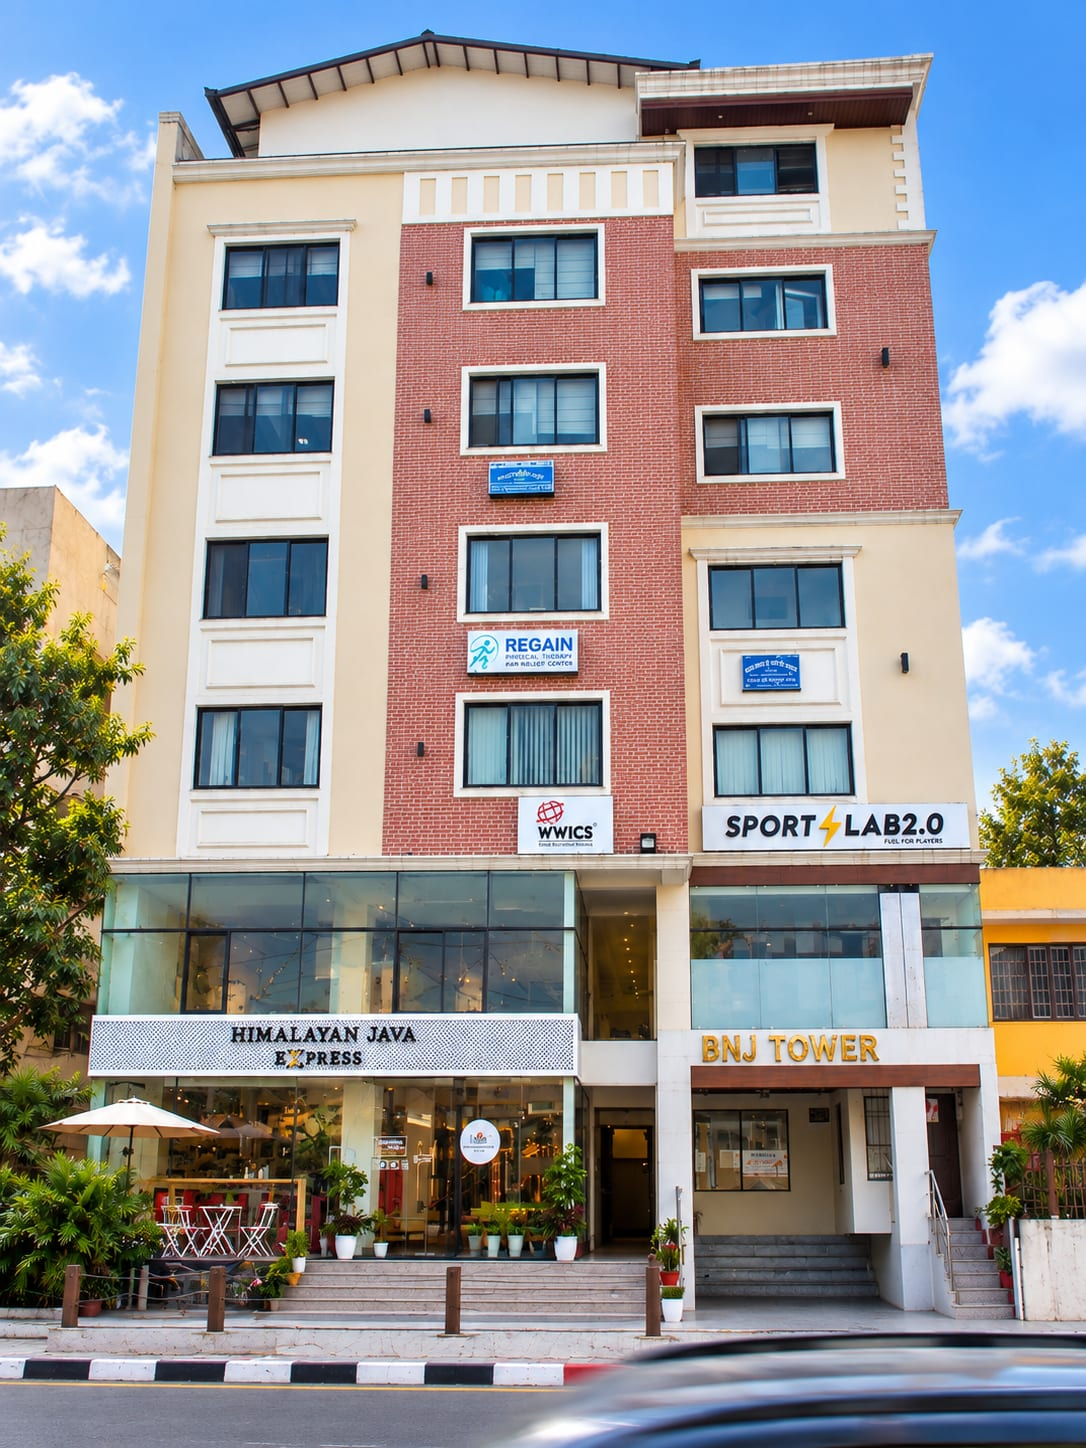
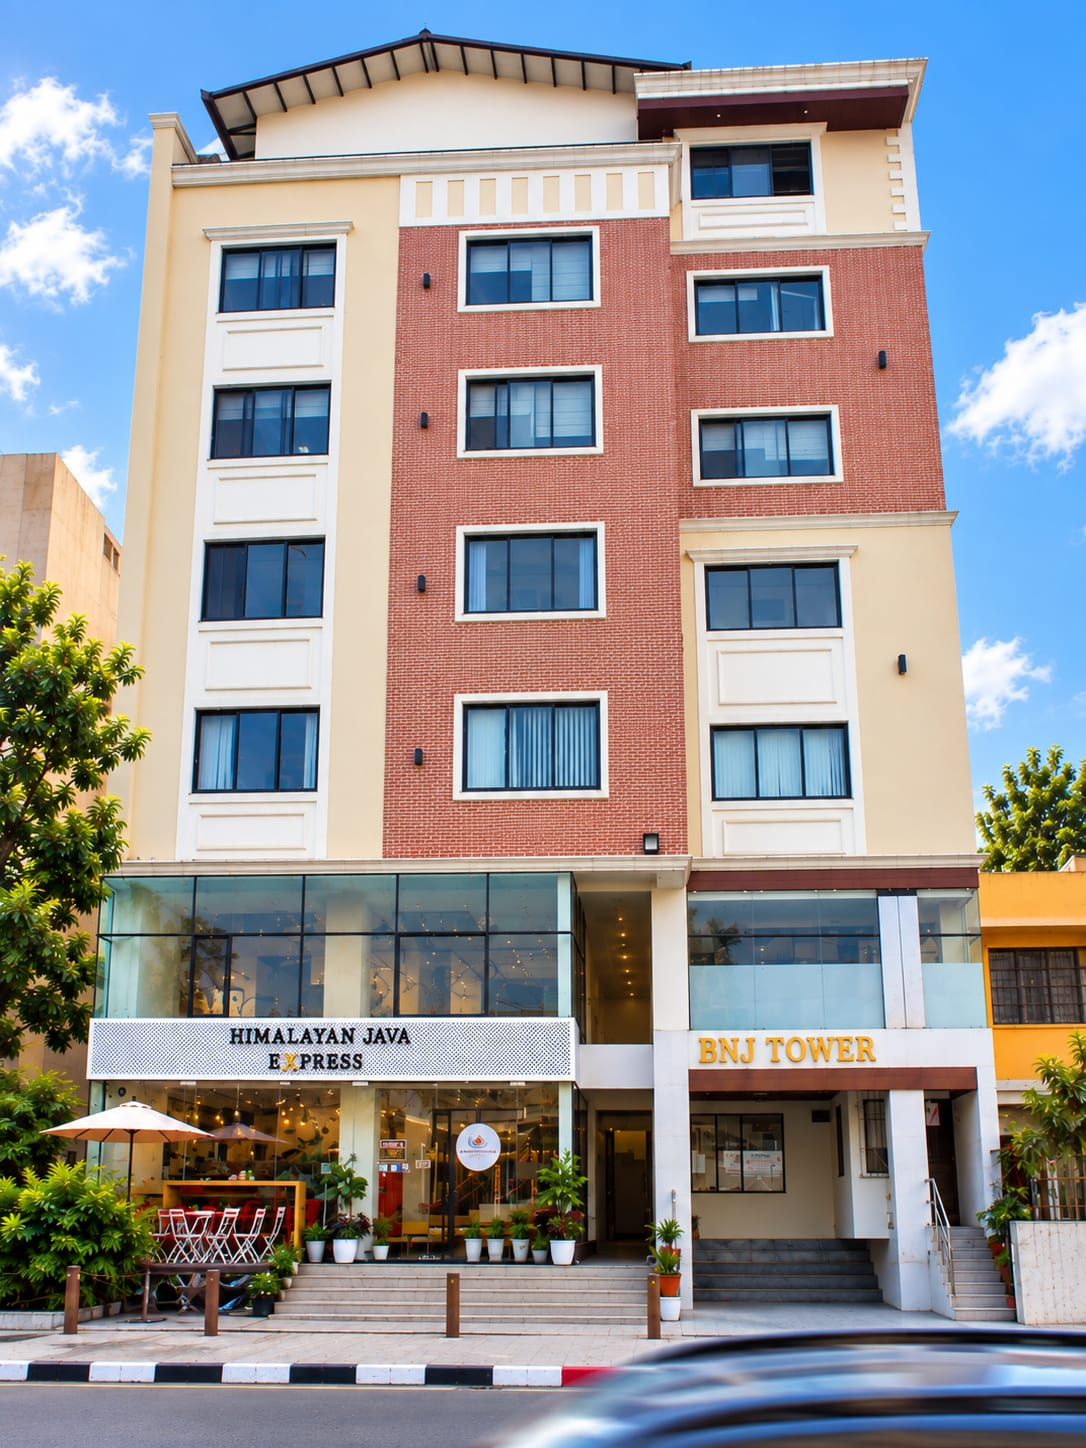
Update BNJ Properties and company profile photos, fix brand and About images
- BNJ Properties: replace placeholder stock photo with real warehouse,
  BNJ Tower, and residential-development photos across card, hero and
  gallery; drop the old duplicated placeholder
- Company profile / About photo: use the real BNJ Tower photo, fit it to
  the frame with no crop and no letterbox gutter, and remove the
  "Generations of Enterprise" badge
- Brand Partners: brand/logo tiles are now clickable links to each
  business's detail page, with a hover affordance
- Business detail pages: move the company/brand logo row into the Key
  Focus Areas panel, sized up and clearly visible, with the featured
  brand (e.g. Montra) shown first
- Fix Kabsons gallery image reference (shreemaya-gas.png)

diff --git a/src/pages/PortfolioDetails.tsx b/src/pages/PortfolioDetails.tsx
@@ -52,16 +52,7 @@ const PortfolioDetails = () => {
         <div className="container mx-auto px-6 relative z-20 flex flex-col justify-center h-full pt-16 w-full max-w-6xl">
 
           <div className="w-[90%] md:w-[75%] lg:w-[60%] border-l-4 border-brand-red pl-6 md:pl-12 lg:pl-16">
-            {data.logo && (
-              <div className="mb-4">
-                <img
-                  src={data.logo}
-                  alt={`${data.title} Logo`}
-                  className="h-12 md:h-16 object-contain dark:filter dark:brightness-0 dark:invert transition-all duration-300"
-                  onError={(e) => e.currentTarget.style.display = 'none'}
-                />
-              </div>
-            )}
+
             <motion.h1
               initial={{ opacity: 0, y: 20 }}
               animate={{ opacity: 1, y: 0 }}
@@ -101,18 +92,48 @@ const PortfolioDetails = () => {
                 </p>
               </div>
 
-              {/* Focus Areas Pull-out */}
-              {data.details.length > 0 && (
+              {/* Focus Areas Pull-out — also carries the company & brand logos, shown large and clear */}
+              {(data.details.length > 0 || data.logo || data.brands.length > 0) && (
                 <div className="my-20 p-12 border-t-4 border-b border-brand-red bg-muted/30">
-                  <h3 className="text-2xl font-black text-foreground mb-8 uppercase tracking-widest text-center">Key Focus Areas</h3>
-                  <div className="grid grid-cols-1 sm:grid-cols-2 gap-x-8 gap-y-6">
-                    {data.details.map((detail, idx) => (
-                      <div key={idx} className="flex items-start gap-4">
-                        <div className="w-1.5 h-1.5 rounded-full bg-brand-red mt-2.5 shrink-0"></div>
-                        <span className="font-light text-lg text-foreground">{detail}</span>
+                  {(data.logo || data.brands.length > 0) && (
+                    <div
+                      className={`flex flex-wrap items-center justify-center gap-x-14 gap-y-8 ${
+                        data.details.length > 0 ? "mb-12 pb-12 border-b border-border" : ""
+                      }`}
+                    >
+                      {data.brands.map((brand) => (
+                        <img
+                          key={brand.id}
+                          src={brand.logo}
+                          alt={brand.name}
+                          className="h-20 md:h-24 object-contain"
+                          onError={(e) => e.currentTarget.style.display = 'none'}
+                        />
+                      ))}
+                      {data.logo && (
+                        <img
+                          src={data.logo}
+                          alt={`${data.title} logo`}
+                          className="h-16 md:h-20 object-contain"
+                          onError={(e) => e.currentTarget.style.display = 'none'}
+                        />
+                      )}
+                    </div>
+                  )}
+
+                  {data.details.length > 0 && (
+                    <>
+                      <h3 className="text-2xl font-black text-foreground mb-10 uppercase tracking-widest text-center">Key Focus Areas</h3>
+                      <div className="grid grid-cols-1 sm:grid-cols-2 gap-x-10 gap-y-8">
+                        {data.details.map((detail, idx) => (
+                          <div key={idx} className="flex items-start gap-4">
+                            <div className="w-2 h-2 rounded-full bg-brand-red mt-3 shrink-0"></div>
+                            <span className="font-semibold text-xl text-foreground">{detail}</span>
+                          </div>
+                        ))}
                       </div>
-                    ))}
-                  </div>
+                    </>
+                  )}
                 </div>
               )}
             </div>
@@ -230,7 +251,7 @@ const PortfolioDetails = () => {
             }}
           ></div>
           <div className="container mx-auto px-6 max-w-6xl relative z-10">
-            <h2 className="text-sm font-bold uppercase tracking-[0.3em] text-brand-red mb-16 text-center border-b border-white/10 pb-8">Featured Partners</h2>
+            <h2 className="text-sm font-bold uppercase tracking-[0.3em] text-brand-red mb-16 text-center border-b border-white/10 pb-8">Our Brands</h2>
 
             <div className="flex flex-wrap justify-center items-center gap-16">
               {data.brands.map((brand) => (

diff --git a/src/pages/BrandPartnersPage.tsx b/src/pages/BrandPartnersPage.tsx
@@ -1,4 +1,6 @@
 import React, { useEffect } from "react";
+import { Link } from "react-router";
+import { ArrowUpRight } from "lucide-react";
 import Header from "../components/Header";
 import ContactFooter from "../components/ContactFooter";
 import { motion } from "motion/react";
@@ -98,12 +100,12 @@ const BrandPartnersPage = () => {
                       </p>
                     </div>
 
-                    <a
-                      href={`/portfolio/${business.slug}`}
+                    <Link
+                      to={`/portfolio/${business.slug}`}
                       className="inline-flex items-center text-sm font-bold uppercase tracking-widest text-[#cb9733] hover:text-white transition-colors mt-auto relative z-10"
                     >
                       View Details &rarr;
-                    </a>
+                    </Link>
                   </div>
 
                   {/* Brands Container */}
@@ -115,21 +117,31 @@ const BrandPartnersPage = () => {
                     {business.brands.length > 0 ? (
                       <div className="flex flex-wrap gap-8 md:gap-12 items-center">
                         {business.brands.map((brand) => (
-                          <div key={brand.id} className="flex flex-col items-center gap-4 group">
-                            <div className="w-32 h-32 md:w-48 md:h-48 rounded-xl bg-muted p-6 flex items-center justify-center border border-border shadow-sm group-hover:border-[#cb9733]/50 group-hover:shadow-md transition-all duration-300">
+                          <Link
+                            key={brand.id}
+                            to={`/portfolio/${business.slug}`}
+                            aria-label={`View ${business.title} — ${brand.name}`}
+                            className="flex flex-col items-center gap-4 group"
+                          >
+                            <div className="relative w-32 h-32 md:w-48 md:h-48 rounded-xl bg-muted p-6 flex items-center justify-center border border-border shadow-sm transition-all duration-300 group-hover:border-[#cb9733]/60 group-hover:shadow-lg group-hover:-translate-y-1">
                               <img
                                 src={brand.logo}
                                 alt={brand.name}
-                                className="max-w-full max-h-full object-contain transition-all duration-300"
+                                className="max-w-full max-h-full object-contain transition-transform duration-300 group-hover:scale-105"
                                 onError={(e) => {
                                   // Fallback if image fails
                                   e.currentTarget.style.display = 'none';
                                   e.currentTarget.parentElement!.innerHTML = `<span class="font-bold text-xl text-foreground text-center">${brand.fallbackText || brand.name}</span>`;
                                 }}
                               />
+                              <span className="absolute top-2 right-2 flex h-7 w-7 items-center justify-center rounded-full bg-[#cb9733] text-white opacity-0 scale-75 shadow-md transition-all duration-300 group-hover:opacity-100 group-hover:scale-100">
+                                <ArrowUpRight size={15} />
+                              </span>
                             </div>
-                            <span className="text-base md:text-lg font-bold text-foreground">{brand.name}</span>
-                          </div>
+                            <span className="text-base md:text-lg font-bold text-foreground transition-colors duration-300 group-hover:text-[#cb9733]">
+                              {brand.name}
+                            </span>
+                          </Link>
                         ))}
                       </div>
                     ) : (

diff --git a/src/content/defaults.ts b/src/content/defaults.ts
@@ -74,7 +74,7 @@ export const DEFAULT_CONTENT: SiteContent = {
     titleLine1: "Why",
     titleLine2: "We Are.",
     image: "/assets/company profile/company profile pic.jpg",
-    imageBadge: "Generations of Enterprise",
+    imageBadge: "",
     imageEyebrow: "Corporate Office",
     imageCaption: "BNJ Tower, Tripureshwor, Kathmandu",
     dropCap: "W",
@@ -223,7 +223,7 @@ export const DEFAULT_CONTENT: SiteContent = {
           fallbackText: "Shreemaya Gas",
         },
       ],
-      gallery: ["/assets/Kabsons/cover.jpg", "/assets/Kabsons/shreemaya-gas.jpg"],
+      gallery: ["/assets/Kabsons/cover.jpg", "/assets/Kabsons/shreemaya-gas.png"],
       published: true,
       order: 1,
     },
@@ -312,8 +312,8 @@ export const DEFAULT_CONTENT: SiteContent = {
       slug: "bnj-properties",
       title: "BNJ Properties",
       icon: "Building2",
-      cardImage: "/assets/portfolio/bnj-properties-hero.jpg",
-      heroImage: "/assets/portfolio/bnj-properties-hero.jpg",
+      cardImage: "/assets/bnj-properties/warehouse.jpg",
+      heroImage: "/assets/bnj-properties/warehouse.jpg",
       description:
         "Commercial Real Estate & Warehousing. Developing and managing commercial business spaces and warehouse leasing assets for Nepal's growing business and logistics requirements.",
       overview:
@@ -333,8 +333,9 @@ export const DEFAULT_CONTENT: SiteContent = {
       features: [],
       brands: [],
       gallery: [
-        "/assets/portfolio/bnj-properties-hero.jpg",
-        "/assets/portfolio/bnj-properties-hero.jpg",
+        "/assets/bnj-properties/warehouse.jpg",
+        "/assets/bnj-properties/bnj-tower.jpg",
+        "/assets/bnj-properties/residential.jpg",
       ],
       published: true,
       order: 4,

diff --git a/src/components/AboutGroup.tsx b/src/components/AboutGroup.tsx
@@ -176,15 +176,15 @@ const AboutGroup = () => {
           {/* Photo + stats column (left) */}
           <motion.div variants={itemVariants} className="lg:w-4/12 w-full flex flex-col gap-3">
             {/* Photo */}
-            <div className="group/photo relative isolate flex-grow min-h-[480px] sm:min-h-[560px] overflow-hidden rounded-2xl bg-gradient-to-b from-[#dfe6f2] via-[#eef1f6] to-[#f6f1e6] shadow-[0_24px_50px_-28px_rgba(17,29,67,0.55)]">
+            <div className="group/photo relative isolate aspect-[1086/1448] overflow-hidden rounded-2xl bg-gradient-to-b from-[#dfe6f2] via-[#eef1f6] to-[#f6f1e6] shadow-[0_24px_50px_-28px_rgba(17,29,67,0.55)]">
               {/* Soft sun glow behind the building */}
               <span
                 aria-hidden
                 className="absolute -right-16 -top-16 h-56 w-56 rounded-full bg-accent/20 blur-3xl transition-transform duration-[1400ms] ease-out group-hover/photo:scale-125"
               />
-              {/* Image covers the container */}
+              {/* Frame is locked to the photo's own proportions, so it fills edge-to-edge with no crop and no gutter */}
               <motion.div
-                className="absolute inset-0 bg-cover bg-center bg-no-repeat transition-[scale] duration-[1400ms] ease-out group-hover/photo:scale-[1.04]"
+                className="absolute inset-0 bg-cover bg-center bg-no-repeat transition-[scale] duration-[1400ms] ease-out group-hover/photo:scale-[1.03]"
                 style={{ backgroundImage: `url('${content.image}')`, y: yParallax }}
               />
 

diff --git a/src/components/FeaturedCompanies.tsx b/src/components/FeaturedCompanies.tsx
@@ -35,7 +35,7 @@ const COMPANIES = [
   {
     name: "BNJ Properties",
     industry: "Real Estate & Warehousing",
-    img: "/assets/portfolio/bnj-properties-hero.jpg",
+    img: "/assets/bnj-properties/warehouse.jpg",
     link: "/portfolio/bnj-properties",
     desc: "Developing and managing commercial business spaces and warehouse leasing assets.",
   },
